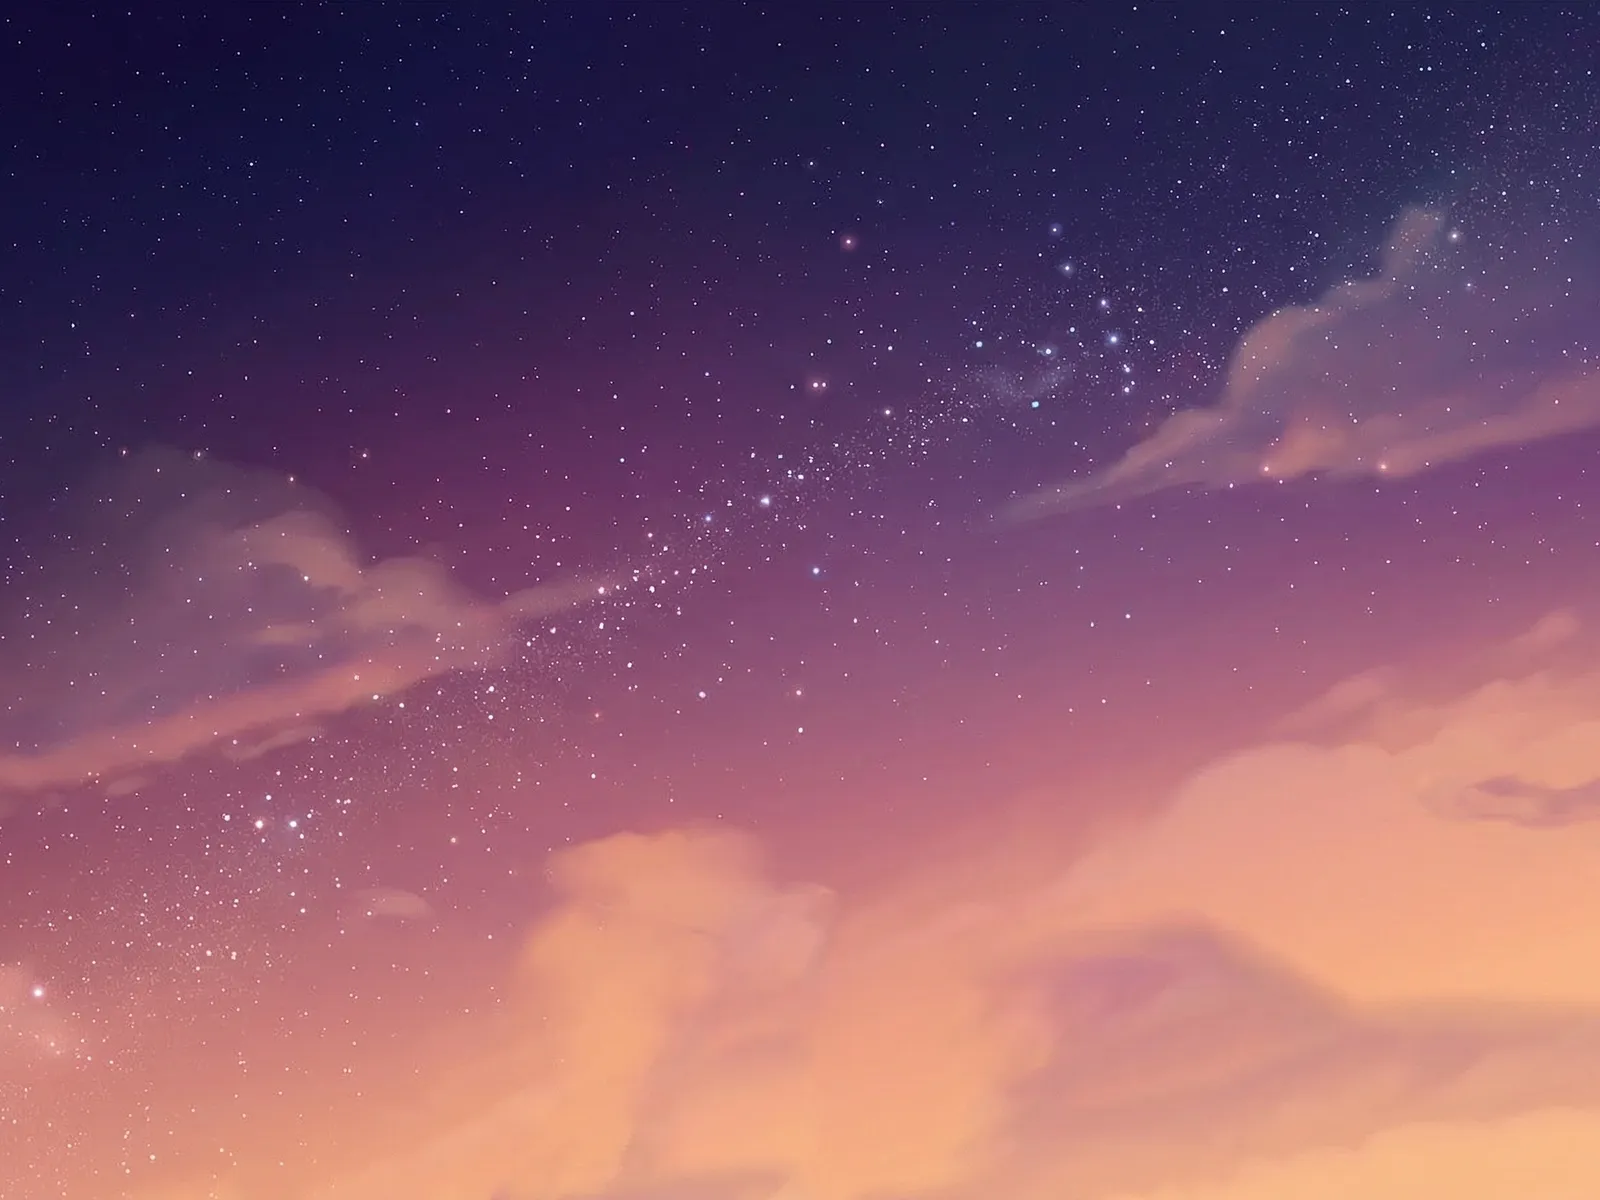
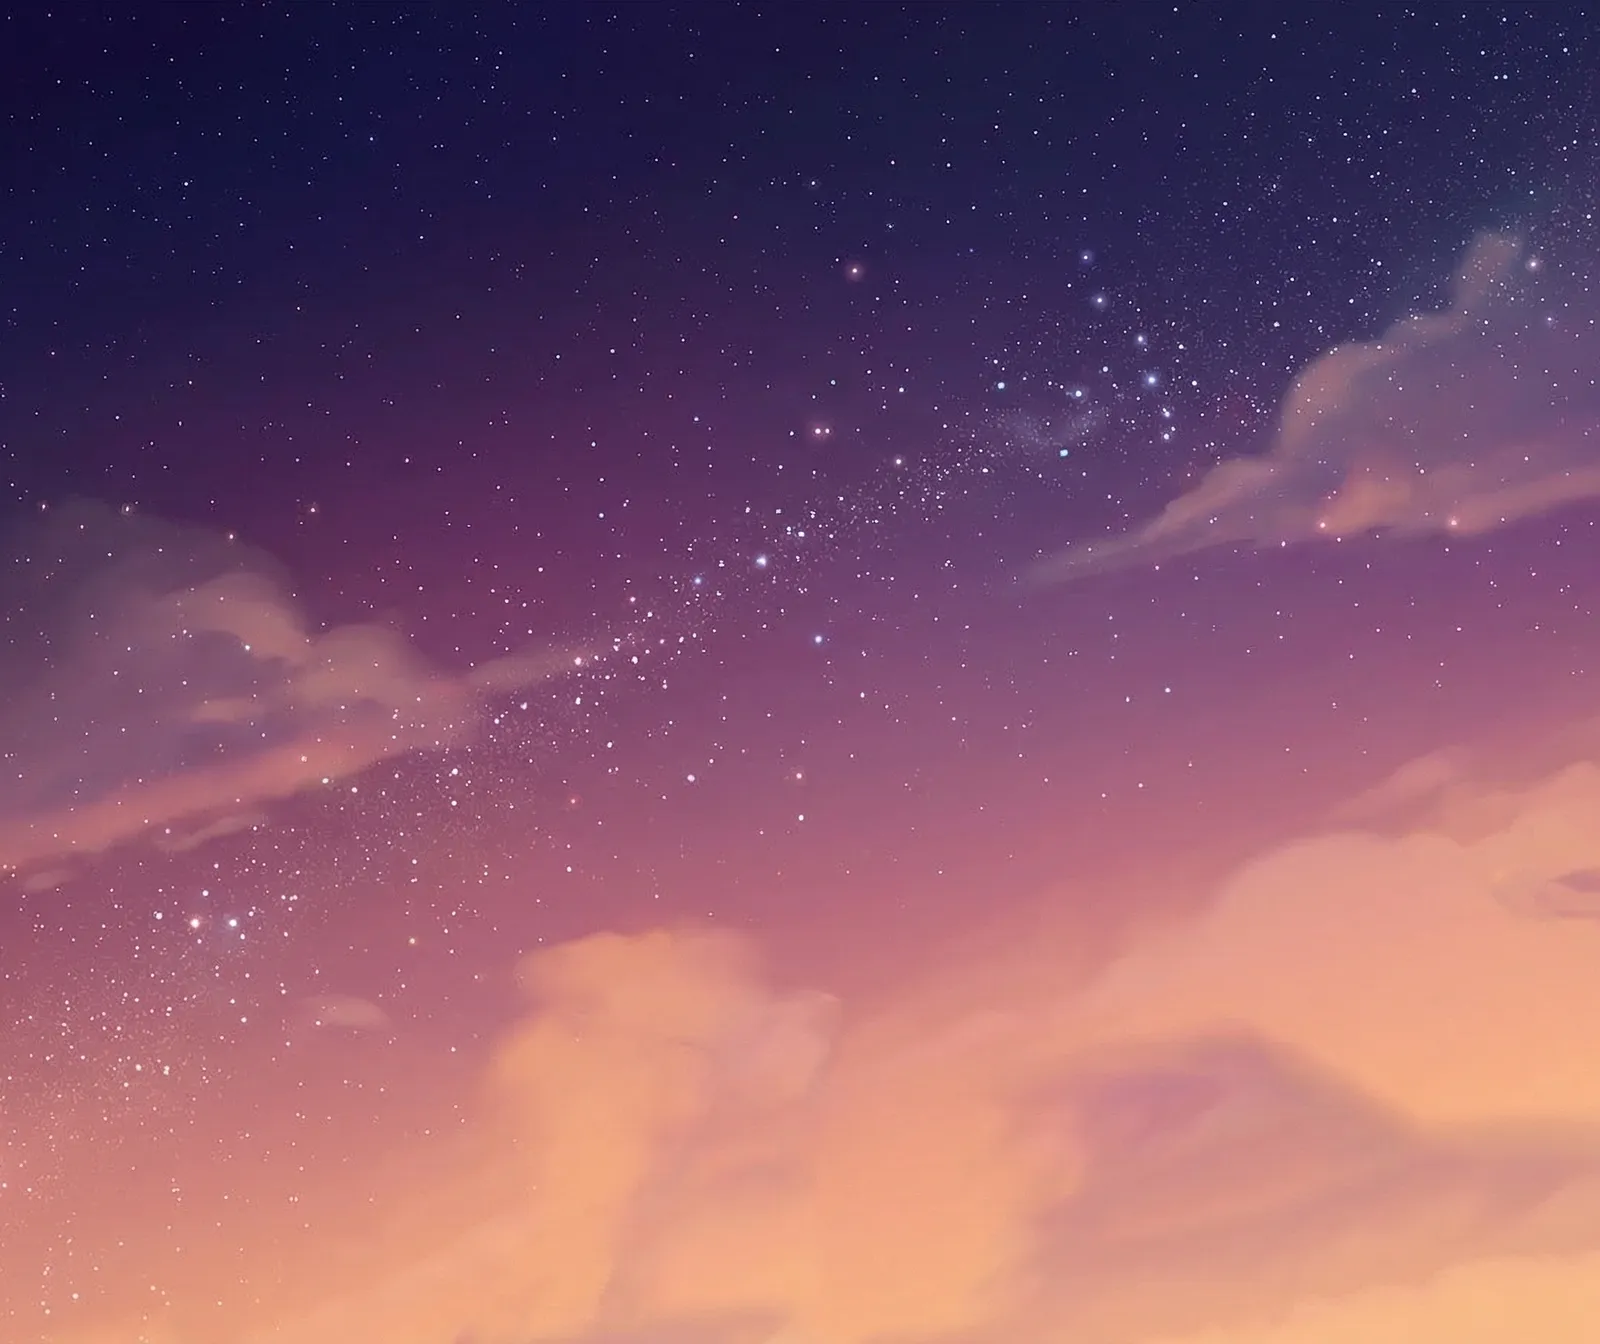
feat: equal window/panel heights, centered splash with real load progress, 2x-200x presets
- Game background re-cropped so the window matches the side panel height
  (the panel stretches to the same row height)
- Idle splash centered and enlarged: droid silhouette + GLITCH FLIGHT
  title; while the bet tx is pending the silhouette fills with the real
  loading state (asymptotic fill, completes on confirmation) over a dark
  backdrop that covers the platform's Loading label
- Target presets spread 2x-200x in two rows; crash-point cap raised to
  a single 500x ceiling so the whole preset range is winnable
- Wallet Balance rows removed from the panel stat boxes

diff --git a/components/glitch-flight/MyGameWindow.tsx b/components/glitch-flight/MyGameWindow.tsx
@@ -238,6 +238,28 @@ const MyGameWindow: React.FC<MyGameWindowProps> = ({ round, sfxMuted, isLoading 
     const sf = Math.min(1, canvasW / 800);
     const droidW = Math.round(281 * Math.max(0.45, sf));
     const boomW = Math.round(468 * Math.max(0.45, sf));
+    const splashW = Math.round(200 * Math.max(0.55, sf));
+
+    // ── Splash fill — tied to the actual bet-transaction state: creeps up
+    //    asymptotically while pending, completes the instant it confirms.
+    const [loadProgress, setLoadProgress] = useState<number>(1);
+    const [renderedLoading, setRenderedLoading] = useState<boolean>(isLoading);
+    if (renderedLoading !== isLoading) {
+        setRenderedLoading(isLoading);
+        setLoadProgress(isLoading ? 0 : 1);
+    }
+
+    useEffect(() => {
+        if (!isLoading) return;
+        const start = performance.now();
+        let raf: number;
+        const step = (now: number): void => {
+            setLoadProgress(Math.min(0.95, 1 - Math.exp(-(now - start) / 500)));
+            raf = requestAnimationFrame(step);
+        };
+        raf = requestAnimationFrame(step);
+        return () => cancelAnimationFrame(raf);
+    }, [isLoading]);
 
     const playSfx = (file: string, volume: number): void => {
         if (sfxMutedRef.current) return;
@@ -659,12 +681,12 @@ const MyGameWindow: React.FC<MyGameWindowProps> = ({ round, sfxMuted, isLoading 
                 </div>
             )}
 
-            {/* ── Idle splash — the site's pre-round screen: the droid logo fully
-                 filled (no progress animation) with the launch caption under it.
-                 Held for the whole idle state. The group is raised above center
-                 and sits above the loading backdrop (z-40 vs z-30), so the
-                 platform's "Loading..." label appears below it while the bet
-                 transaction is pending. ── */}
+            {/* ── Idle splash — the site's pre-round screen, centered: the droid
+                 silhouette with the game title under it. While the bet
+                 transaction is pending, the silhouette fills up with the real
+                 loading progress (asymptotic while pending, completes on
+                 confirmation) and a dark backdrop covers the platform's
+                 "Loading..." label underneath (z-40 vs z-30). ── */}
             {phase === "idle" && (
                 <div
                     style={{
@@ -677,40 +699,59 @@ const MyGameWindow: React.FC<MyGameWindowProps> = ({ round, sfxMuted, isLoading 
                         justifyContent: "center",
                     }}
                 >
+                    {isLoading && (
+                        <div style={{ position: "absolute", inset: 0, background: "rgba(6,9,16,0.97)" }} />
+                    )}
                     <div
                         style={{
+                            position: "relative",
                             display: "flex",
                             flexDirection: "column",
                             alignItems: "center",
-                            gap: Math.round(16 * Math.max(0.6, sf)),
-                            transform: `translateY(-${Math.round(106 * Math.max(0.7, sf))}px)`,
+                            gap: Math.round(22 * Math.max(0.6, sf)),
                         }}
                     >
-                        <img
-                            src={`${ASSET_BASE}/logo.svg`}
-                            alt="Glitch Flight"
-                            draggable={false}
+                        <div
                             style={{
-                                width: Math.round(112 * Math.max(0.55, sf)),
-                                display: "block",
+                                position: "relative",
+                                width: splashW,
+                                height: Math.round((splashW * 151) / 144),
                             }}
-                        />
-                        {/* While loading, the platform's "Loading..." takes this spot. */}
-                        {!isLoading && (
-                            <p
-                                className="gf-mono"
+                        >
+                            <img
+                                src={`${ASSET_BASE}/logo.svg`}
+                                alt=""
+                                draggable={false}
+                                style={{ position: "absolute", inset: 0, width: "100%", height: "100%", opacity: 0.18, display: "block" }}
+                            />
+                            <img
+                                src={`${ASSET_BASE}/logo.svg`}
+                                alt="Glitch Flight"
+                                draggable={false}
                                 style={{
-                                    fontSize: 11,
-                                    fontWeight: 700,
-                                    color: "rgba(255,255,255,1)",
-                                    letterSpacing: "0.22em",
-                                    textTransform: "uppercase",
-                                    margin: 0,
+                                    position: "absolute",
+                                    inset: 0,
+                                    width: "100%",
+                                    height: "100%",
+                                    display: "block",
+                                    clipPath: `inset(0 ${Math.max(0, 100 - loadProgress * 100)}% 0 0)`,
                                 }}
-                            >
-                                Preparing launch
-                            </p>
-                        )}
+                            />
+                        </div>
+                        <p
+                            className="gf-mono"
+                            style={{
+                                fontSize: Math.round(15 * Math.max(0.7, sf)),
+                                fontWeight: 800,
+                                color: "rgba(255,255,255,0.95)",
+                                letterSpacing: "0.3em",
+                                textTransform: "uppercase",
+                                margin: 0,
+                                textShadow: "0 0 14px rgba(255,255,255,0.35)",
+                            }}
+                        >
+                            Glitch Flight
+                        </p>
                     </div>
                 </div>
             )}

diff --git a/components/glitch-flight/myGameConfig.ts b/components/glitch-flight/myGameConfig.ts
@@ -40,11 +40,10 @@ export const MAX_BET = 100;
  * Bounds for the flight target multiplier — the only bet parameter besides
  * the wager. The round is resolved fully on-chain: the droid reaches the
  * target (payout = bet x target) or crashes first (payout = 0x). The ceiling
- * matches the highest possible crash point (CAP_TIER_3) — a target above it
- * can never win.
+ * stays below CRASH_CAP so every selectable target is winnable.
  */
 export const TARGET_MIN = 1.01;
-export const TARGET_MAX = 65.51;
+export const TARGET_MAX = 200;
 export const TARGET_DEFAULT = 2.0;
 
 export function clampTarget(value: number): number {
@@ -61,16 +60,11 @@ export function clampTarget(value: number): number {
 export const HOUSE_EDGE = 0.05;
 
 /**
- * Multi-tier crash-point cap — prevents extreme outliers while keeping the
- * top end varied. When the raw crash point exceeds CAP_TIER_1, a second,
- * independent slice of the random word picks the effective ceiling:
- * 70% → CAP_TIER_1, 22% → CAP_TIER_2, 8% → CAP_TIER_3.
+ * Hard ceiling for the crash point — protects the house pool from extreme
+ * heavy-tail outliers. Protocol-configured at integration time; must stay
+ * above TARGET_MAX so the whole preset range remains winnable.
  */
-export const CAP_TIER_1 = 47.4;
-export const CAP_TIER_2 = 56.2;
-export const CAP_TIER_3 = 65.51;
-const CAP_TIER_2_PCT = 70;
-const CAP_TIER_3_PCT = 92;
+export const CRASH_CAP = 500;
 
 /**
  * Exponential multiplier growth rate (per millisecond of flight time):
@@ -101,14 +95,7 @@ export function computeCrashPoint(randomWord: Hex): number {
     if (h % Math.round(1 / HOUSE_EDGE) === 0) return 1.0;
 
     const raw = Math.floor((100 * e - h) / (e - h)) / 100;
-    const base = Math.max(1.0, raw);
-
-    if (base <= CAP_TIER_1) return base;
-
-    const capRoll = parseInt(randomWord.slice(10, 18), 16) % 100;
-    if (capRoll < CAP_TIER_2_PCT) return CAP_TIER_1;
-    if (capRoll < CAP_TIER_3_PCT) return CAP_TIER_2;
-    return CAP_TIER_3;
+    return Math.min(CRASH_CAP, Math.max(1.0, raw));
 }
 
 // ─── Shared types ─────────────────────────────────────────────────────────────

diff --git a/components/glitch-flight/MyGameSetupCard.tsx b/components/glitch-flight/MyGameSetupCard.tsx
@@ -36,8 +36,8 @@ interface MyGameSetupCardProps {
     setTargetMultiplier: (value: number) => void;
 }
 
-/** Two rows of six presets, all within the reachable crash range. */
-const TARGET_PRESETS: number[] = [1.2, 1.5, 2, 3, 5, 7.5, 10, 15, 20, 30, 50, 65];
+/** Two rows of six presets, spread from 2x to 200x. */
+const TARGET_PRESETS: number[] = [2, 3, 5, 7, 10, 15, 20, 30, 50, 75, 100, 200];
 
 function StatRow({ label, value, valueClass = "text-white" }: { label: string; value: string; valueClass?: string }): React.ReactElement {
     return (
@@ -167,7 +167,6 @@ const MyGameSetupCard: React.FC<MyGameSetupCardProps> = ({
                         <StatRow label="Flight Target" value={`${targetMultiplier.toFixed(2)}x`} valueClass="text-[#00FF94]" />
                         <StatRow label="Potential Payout" value={formatApe(targetWin)} valueClass="text-[#00FF94]" />
                         <StatRow label="Max Bet Per Flight" value={`${maxBet.toLocaleString([], { maximumFractionDigits: 0 })} APE`} />
-                        <StatRow label="Wallet Balance" value={formatApe(walletBalance)} />
                     </div>
 
                     <button
@@ -231,7 +230,6 @@ const MyGameSetupCard: React.FC<MyGameSetupCardProps> = ({
                         {round.revealedCrashPoint !== null && (
                             <StatRow label="Crash Point" value={`${round.revealedCrashPoint.toFixed(2)}x`} />
                         )}
-                        <StatRow label="Wallet Balance" value={formatApe(walletBalance)} />
                     </div>
 
                     <div className="grow" />

diff --git a/SUBMISSION_GUIDE.md b/SUBMISSION_GUIDE.md
@@ -6,9 +6,9 @@
 
 ```
 components/glitch-flight/      ← вся игра (6 файлов)
-  MyGame.tsx                   ← лайфсайкл: playGame / handleReset / handlePlayAgain / handleRewatch / handleCashOut
-  MyGameWindow.tsx             ← сцена полёта (облака, койны, дроид, глитч, краш)
-  MyGameSetupCard.tsx          ← панель: ставка, Auto Ape Out (целевой X), APE OUT, результаты
+  MyGame.tsx                   ← лайфсайкл: playGame / handleReset / handlePlayAgain / handleRewatch
+  MyGameWindow.tsx             ← сцена полёта (заставка, облака, койны, дроид, глитч, краш)
+  MyGameSetupCard.tsx          ← панель: ставка, Flight Target (строка + пресеты 2x–200x), результаты
   MyGameResultsModal.tsx       ← своё окно результатов в стиле apedroidz
   myGameConfig.ts              ← конфиг + provably-fair формула crash point (порт с вашего game-server)
   glitch-flight.styles.css     ← анимации
@@ -17,7 +17,7 @@ public/glitch-flight/          ← ассеты, всего ~5.1MB (лимит 1
 metadata.json                  ← заявка
 ```
 
-Механика (Limbo-стиль, полностью он-чейн, без промежуточных решений): игрок задаёт ставку и **целевой множитель** (Flight Target, 1.01–65.51) → он-чейн random word детерминированно задаёт crash point → дроид летит; если crash point выше цели — дроид долетает и выплата = bet × target, иначе краш и 0. Исход полностью определён параметрами транзакции и случайным числом сети — ровно как требует документация («the chain gives your game a random number, your game turns that into an outcome»). Rewatch воспроизводит раунд из тех же данных без новой транзакции. Окно результатов — собственное (`MyGameResultsModal.tsx`, стиль apedroidz): встроенная платформенная модалка отключена легально — `onPlayAgain` в `GameWindow` опционален, shared-файлы не тронуты. В верху панели — логотип ApeDroidz (`brand.svg`).
+Механика (Limbo-стиль, полностью он-чейн, без промежуточных решений): игрок задаёт ставку и **целевой множитель** (Flight Target, 1.01–200, пресеты 2x–200x) → он-чейн random word детерминированно задаёт crash point → дроид летит; если crash point выше цели — дроид долетает и выплата = bet × target, иначе краш и 0. Исход полностью определён параметрами транзакции и случайным числом сети — ровно как требует документация («the chain gives your game a random number, your game turns that into an outcome»). Rewatch воспроизводит раунд из тех же данных без новой транзакции. Окно результатов — собственное (`MyGameResultsModal.tsx`, стиль apedroidz): встроенная платформенная модалка отключена легально — `onPlayAgain` в `GameWindow` опционален, shared-файлы не тронуты. В верху панели — логотип ApeDroidz (`brand.svg`).
 
 ## ⚠️ Перед подачей ОБЯЗАТЕЛЬНО заполнить
 